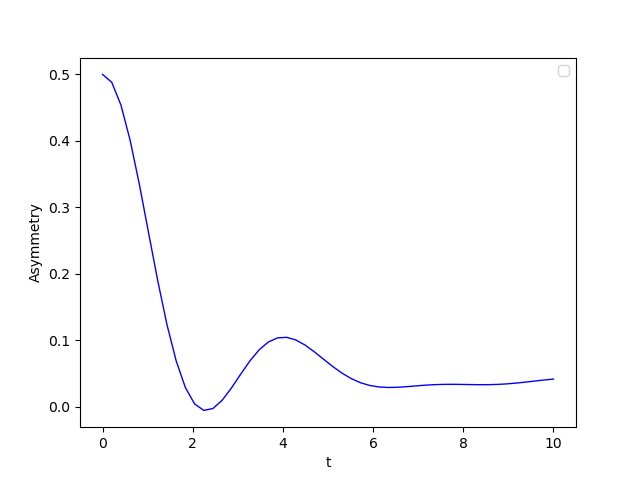
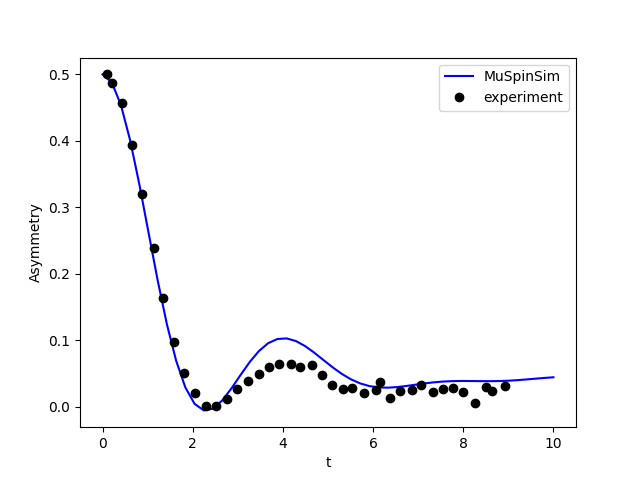
Add experimental data to plot and mention spin of Vanadium

diff --git a/docs/docs/examples.md b/docs/docs/examples.md
@@ -201,7 +201,7 @@ Finally, we look at how we can use Celio's method to approximate a large system 
 > [Entanglement between Muon and $I > \frac{1}{2}$ Nuclear Spins as a Probe of Charge Environment](https://doi.org/10.1103/PhysRevLett.129.097205)
 > *Phys. Rev. Lett. **129**, 097205 – Published 26 August 2022*
 
-In brief since the Si atoms have 0 spin, we only consider the Vanadium atoms and then include the 4 nearest neighbours to the muon stopping site. We then consider the dipolar couplings of the Vanadium atoms with the muon and quadrupolar couplings of the Vanadium atoms. For the latter which requires EFG tensors, we use values obtained using GIPAW and average over simulations with muons initially polarised in the x, y and z directions via
+In brief, this system consists of Si atoms each with 0 spin, and Vanadium atoms each with a spin $\frac{7}{2}$. Since the Si atoms have 0 spin, we only consider interactions between the muon and the Vanadium atoms. We then find 4 closest Vanadium atoms to the muon stopping site and consider their dipolar couplings with the muon as well as their quadrupolar couplings. For the latter which requires EFG tensors, we use values obtained using GIPAW and average over simulations with muons initially polarised in the x, y and z directions via
 
 ```plaintext
 polarization
@@ -221,5 +221,5 @@ celio
 
 Where the first value is the trotter number $k = 10$, and the second value gets MuSpinSim to randomise the initial states and compute the average of 4 simulations for each initial polarisation direction.
 
-Running this example will take longer than the others due to the size of the problem, but without using Celio's method it would have taken many times longer and would require a lot more memory. The result should look like Figure 2(a) in the paper:
+Running this example will take longer than the others due to the size of the problem (in this case we have a Hilbert space of dimension $2\times8^4 = 8192$), but without using Celio's method it would have taken many times longer and would require a lot more memory. The result should look like Figure 2(a) in the paper:
 ![Plot of asymmetry simulated using Celio's method for 4 V atoms](./figExCelio.png)
